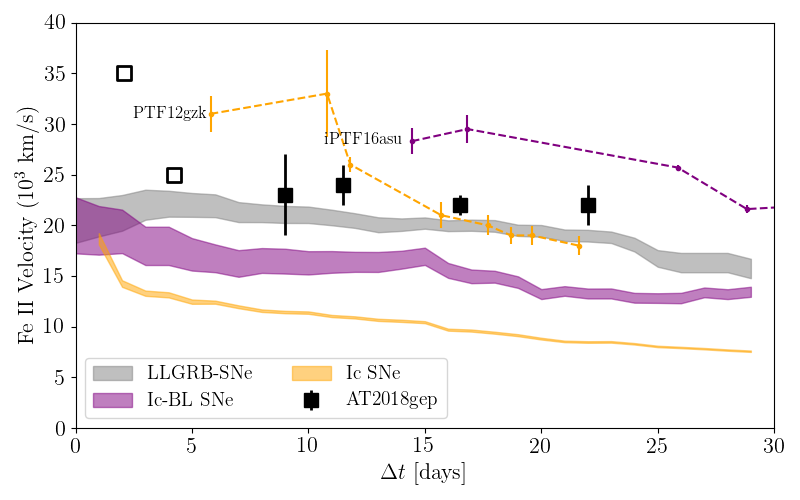
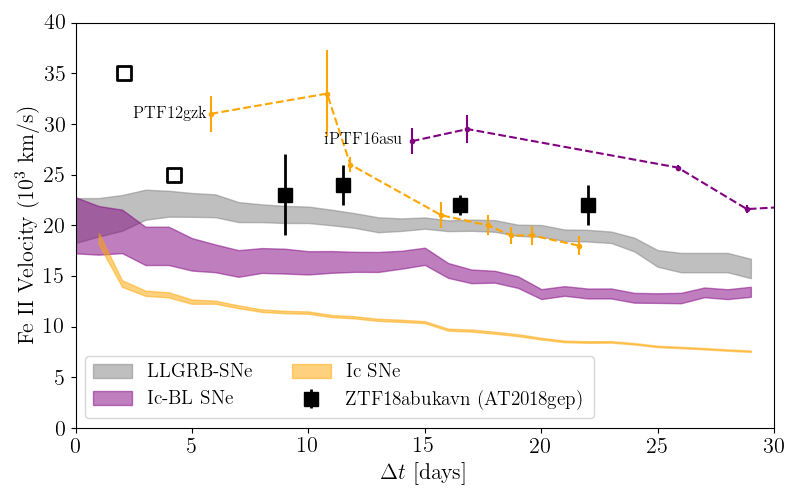
code to mask out lines

Changed region(s): [[0.125, 0.69, 0.75, 0.84]]

diff --git a/code/paper_plots/spec_sequence.py b/code/paper_plots/spec_sequence.py
@@ -11,87 +11,86 @@ from astropy.cosmology import Planck15
 from astropy.time import Time
 import glob
 
-files = glob.glob(
-"/Users/annaho/Dropbox/Projects/Research/ZTF18abukavn/data/spec/ZTF18abukavn/*.ascii")
-files = np.array(files[12:])
-dt = np.zeros(len(files))
-cols = np.array([""]*len(dt), dtype='U10')
 
-# Read in all of the files, pull out the corresponding dates, and sort by date
-t0 = 2458370.6634 # in JD
-for ii,f in enumerate(files):
-    tel = f.split("_")[2]
-    alldat = open(f).readlines()
-    if tel == 'LT':
-        for line in alldat:
-            if 'DATE-OBS' in line:
-                obsdate = line[13:36]
-                t = Time(obsdate, format='isot').jd
-                dt[ii] = t-t0
-        cols[ii] = 'magenta'
-    elif tel == 'P200':
-        for line in alldat:
-            if 'UT shutter open' in line:
-                obsdate = line[12:35]
-                print(obsdate)
-                t = Time(obsdate, format='isot').jd
-                dt[ii] = t-t0
-        cols[ii] = 'lightblue'
-    elif tel == 'Keck1':
-        for line in alldat:
-            if 'DATE_BEG' in line:
-                obsdate = line[13:32]
-                t = Time(obsdate, format='isot').jd
-                dt[ii] = t-t0
-        cols[ii] = 'red'
-    elif tel == 'DCT':
-        obsdate = '2018-09-14T00:00:00' # temporary
-        t = Time(obsdate, format='isot').jd
-        dt[ii] = t-t0
-        cols[ii] = 'yellow'
-    elif tel == 'NOT':
-        obsdate = '2018-09-17T00:00:00' # temporary
-        t = Time(obsdate, format='isot').jd
-        dt[ii] = t-t0
-        cols[ii] = 'green'
-    elif tel == 'P60':
-        for line in alldat:
-            if 'MJD_OBS' in line:
-                obsdate = float(line[11:25])
-                t = Time(obsdate, format='mjd').jd
-                dt[ii] = t-t0
-        cols[ii] = 'black'
-    else:
-        print("couldn't find telescope")
-        print(tel)
-order = np.argsort(dt)
-files_sorted = files[order]
-dt_sorted = dt[order]
-cols = cols[order]
+def get_files():
+    files = np.array(glob.glob(
+    "/Users/annaho/Dropbox/Projects/Research/ZTF18abukavn/data/spec/ZTF18abukavn/*.ascii"))
+    dt = np.zeros(len(files))
+    tels = []
+    cols = np.array([""]*len(dt), dtype='U10')
 
-nfiles = len(files_sorted)
+    # Read in all of the files, pull out the corresponding dates, and sort by date
+    t0 = 2458370.6634 # in JD
+    for ii,f in enumerate(files):
+        tel = f.split("_")[2]
+        tels.append(tel)
+        alldat = open(f).readlines()
+        if tel == 'LT':
+            for line in alldat:
+                if 'DATE-OBS' in line:
+                    obsdate = line[13:36]
+                    t = Time(obsdate, format='isot').jd
+                    dt[ii] = t-t0
+            cols[ii] = 'magenta'
+        elif tel == 'P200':
+            for line in alldat:
+                if 'UT shutter open' in line:
+                    obsdate = line[12:35]
+                    print(obsdate)
+                    t = Time(obsdate, format='isot').jd
+                    dt[ii] = t-t0
+            cols[ii] = 'lightblue'
+        elif tel == 'Keck1':
+            for line in alldat:
+                if 'DATE_BEG' in line:
+                    obsdate = line[13:32]
+                    t = Time(obsdate, format='isot').jd
+                    dt[ii] = t-t0
+            cols[ii] = 'red'
+        elif tel == 'DCT':
+            obsdate = '2018-09-14T00:00:00' # temporary
+            t = Time(obsdate, format='isot').jd
+            dt[ii] = t-t0
+            cols[ii] = 'yellow'
+        elif tel == 'NOT':
+            obsdate = '2018-09-17T00:00:00' # temporary
+            t = Time(obsdate, format='isot').jd
+            dt[ii] = t-t0
+            cols[ii] = 'green'
+        elif tel == 'P60':
+            for line in alldat:
+                if 'MJD_OBS' in line:
+                    obsdate = float(line[11:25])
+                    t = Time(obsdate, format='mjd').jd
+                    dt[ii] = t-t0
+            cols[ii] = 'black'
+        else:
+            print("couldn't find telescope")
+            print(tel)
+    order = np.argsort(dt)
+    files_sorted = files[order]
+    dt_sorted = dt[order]
+    tel_sorted = np.array(tels)[order]
+    cols = cols[order]
+    return files_sorted, dt_sorted, tel_sorted
 
-fig,axarr = plt.subplots(nfiles,1,figsize=(8,10), sharex=True)
 
-# Loop through the sorted files, and plot the spectra
-for ii,ax in enumerate(axarr):
-    f = files_sorted[ii]
-    # In Dan's 18cow paper, he interpolates over host narrow features
-    tel = f.split("_")[2]
+def load_spec(f):
+    """ load data from spec file """
     dat = np.loadtxt(f)
     wl = dat[:,0]
     flux = dat[:,1]
+    return wl, flux
 
-    # Plot the spectrum
-    x = wl
-    y = flux 
-    ax.plot(x, y, c='k', drawstyle='steps-mid', lw=0.5)
 
-    # Label the dt
-    #t_raw = f.split("_")[1]
-    #t = Time(t_raw[:4] + "-" + t_raw[4:6] + "-" + t_raw[6:8], format='iso').jd
-    #dt = t-t0
-    dt_str = r"$\Delta t$=%s d" %str(np.round(dt_sorted[ii], 1))
+def plot_spec(ax, x, y, tel, epoch):
+    """ plot the spectrum """
+    choose = y >= 0 
+    plt.plot(x[choose], y[choose], c='k', drawstyle='steps-mid', lw=0.5)
+    plt.ylabel(r"Flux $f_{\lambda}$", fontsize=16)
+    plt.xlabel(r"Observed Wavelength (\AA)", fontsize=16)
+    plt.tick_params(labelsize=14)
+    dt_str = r"$\Delta t$=%s d" %str(np.round(epoch, 1))
     ax.text(
             0.98, 0.9, s=dt_str, 
             horizontalalignment='right', verticalalignment='center', 
@@ -100,21 +99,80 @@ for ii,ax in enumerate(axarr):
             0.98, 0.7, s=tel, 
             horizontalalignment='right', verticalalignment='center', 
             fontsize=14, transform=ax.transAxes)
-    ax.set_ylabel(
-        r"Flux $f_{\lambda}$", fontsize=16)
-    ax.yaxis.set_ticks([])
-    if tel == 'NOT':
-        ax.set_ylim(min(y)/15, max(y)/2) # get rid of noisy end
 
-ax.set_xlabel(
-        r"Observed Wavelength (\AA)", fontsize=16)
-ax.xaxis.set_tick_params(labelsize=14)
-ax.set_xlim(3000,10500)
-#ax.set_ylim(-25, 50)
-plt.subplots_adjust(hspace=0)
-#ax.legend(loc='upper right', fontsize=12)
-#ax.set_xscale('log')
 
-plt.tight_layout()
-plt.savefig("spec_third_third.png")
-#plt.show()
+def choose_lines(z, dt):
+    """ choose galaxy emission lines given the epoch """
+    halpha = np.array([6563])
+    hbeta = np.array([4861])
+    hgamma = np.array([4341]) 
+    oiii = np.array([4932.6, 4960.295, 5008.24]) # O III
+    nii = np.array([6549.86])
+    oi = np.array([6302.046, 6365.536])
+    gal_wl = np.hstack((halpha, hbeta, oiii)) * (z+1)
+    return gal_wl
+
+
+def plot_lines(z, tel, dt):
+    """ Plot galaxy emission lines for a particular redshift """
+    if tel == 'LT':
+        res = 18 # Angstrom, res at central wavelength
+    else:
+        res = 18 # temp 
+    #elif tel == 'DBSP':
+    gal_wl = choose_lines(z, dt)
+    for val in gal_wl:
+        plt.axvspan(
+                val-res/2, val+res/2, ls='--', color='grey', lw=0.5, alpha=0.5)
+
+
+def clip_lines(wl, flux, z, tel, dt):
+    if tel == 'LT':
+        res = 18 # Angstrom, res at central wavelength
+        res = 20 # add a couple of Ang?
+    else:
+        res = 20 # placeholder, I don't actually know what it is
+    gal_wl = choose_lines(z, dt)
+    for line in gal_wl:
+        choose = np.logical_and(wl >= line-res/2, wl <= line+res/2)
+        flux[choose] = -99 # mask these out
+    return wl, flux
+
+
+def get_tellurics():
+    start = np.array([7594, 6853])
+    end = np.array([7678, 6950])
+    return start, end
+
+
+def clip_tellurics(wl, flux):
+    start, end = get_tellurics()
+    for ii,beg in enumerate(start):
+        choose = np.logical_and(wl >= beg, wl <= end[ii])
+        flux[choose] = -99 # mask these out
+    return wl, flux
+
+
+def plot_tellurics():
+    col = 'pink'
+    plt.axvspan(7594, 7678, ls='--', color=col, lw=0.5, alpha=0.5)
+    plt.axvspan(6853, 6950, ls='--', color=col, lw=0.5, alpha=0.5)
+
+
+if __name__=="__main__":
+    fig,ax = plt.subplots(1,1,figsize=(9,5))
+    files, epochs, tels = get_files()
+    for ii in np.arange(len(files)):
+        f = files[ii]
+        tel = tels[ii]
+        dt = epochs[ii]
+        z = 0.0322
+        wl, flux = load_spec(f)
+        wl, flux = clip_lines(wl, flux, z, tel, dt)
+        wl, flux = clip_tellurics(wl, flux)
+        plot_spec(ax, wl, flux, tel, dt)
+        #plot_lines(z, tel, dt)
+        plt.tight_layout()
+        #plt.show()
+        plt.savefig("spec_%s.png" %ii)
+        plt.close()

diff --git a/code/paper_plots/velocity.py b/code/paper_plots/velocity.py
@@ -28,7 +28,8 @@ def plot_18gep():
 
     plt.errorbar(
             dt[el=='Fe'], vel[el=='Fe'], yerr=evel[el=='Fe'], 
-            fmt='s', c='k', label="AT2018gep", zorder=10, ms=10, lw=2)
+            fmt='s', c='k', label="ZTF18abukavn (AT2018gep)", 
+            zorder=10, ms=10, lw=2)
 
 
 def plot_16asu():
@@ -333,7 +334,7 @@ def plot_population():
 if __name__=="__main__":
     fig,ax = plt.subplots(1, 1, figsize=(8,5))
 
-    plot_18gep()
+    #plot_18gep()
     plot_grbsne()
     plot_16asu()
     plot_icbl()

diff --git a/code/paper_plots/fit_expl_epoch.py b/code/paper_plots/fit_expl_epoch.py
@@ -47,6 +47,8 @@ xlab = np.linspace(-1,2)
 ylab = out[0]*xlab**2 + out[1]*xlab + out[2]
 plt.plot(xlab, ylab/1E28, c='k', ls='--')
 
+# Plot the last upper limit
+
 ax.set_ylabel(r"$L_\nu$ [$10^{28}$ erg/s/Hz]", fontsize=16)
 ax.set_xlabel("Days since JD 2458370.6634", fontsize=16)
 ax.yaxis.set_tick_params(labelsize=14)
